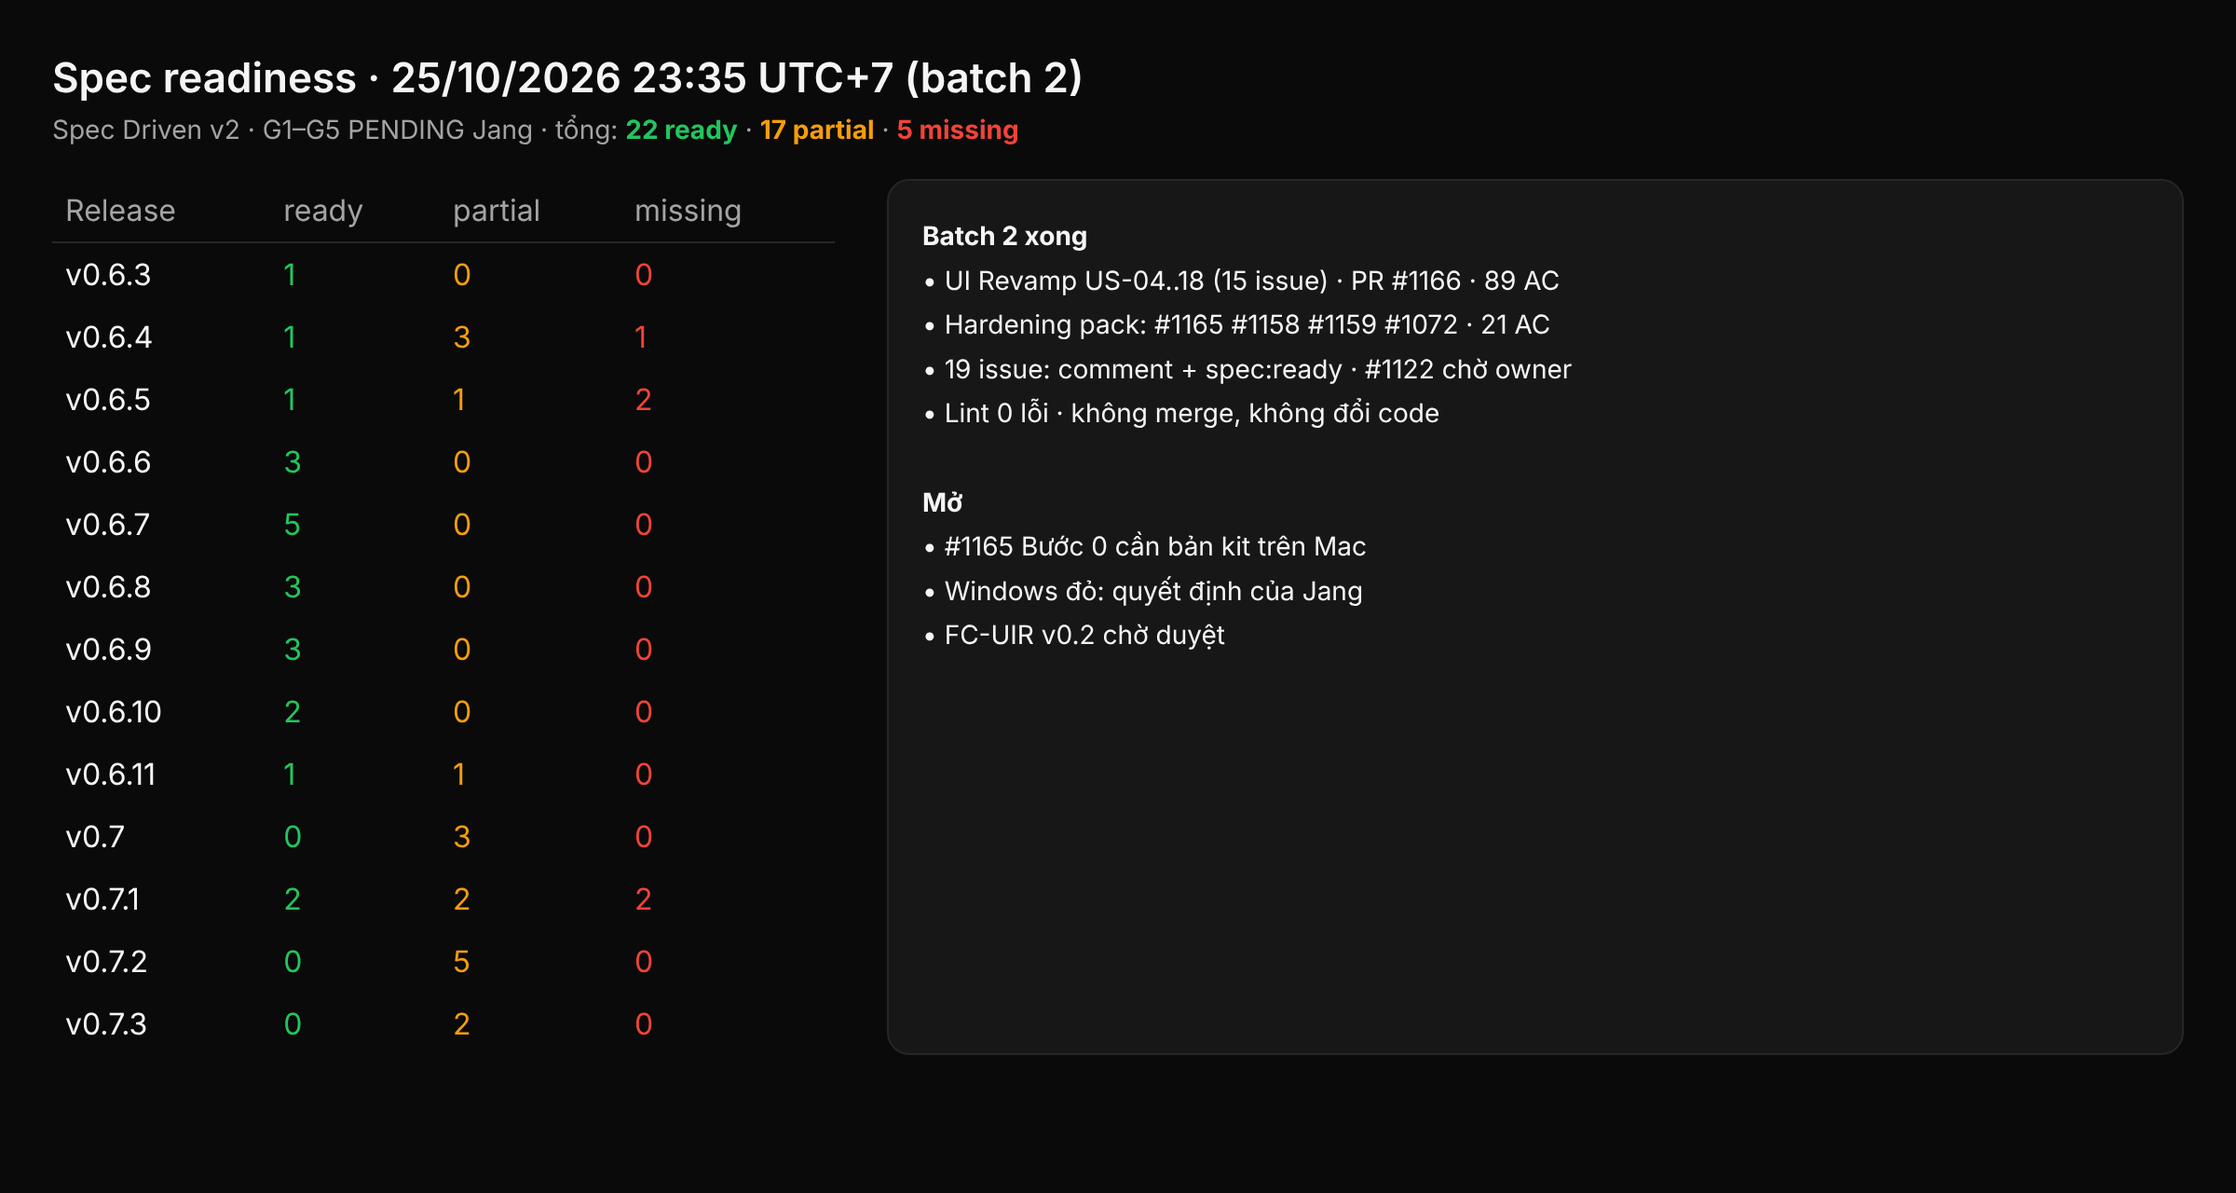
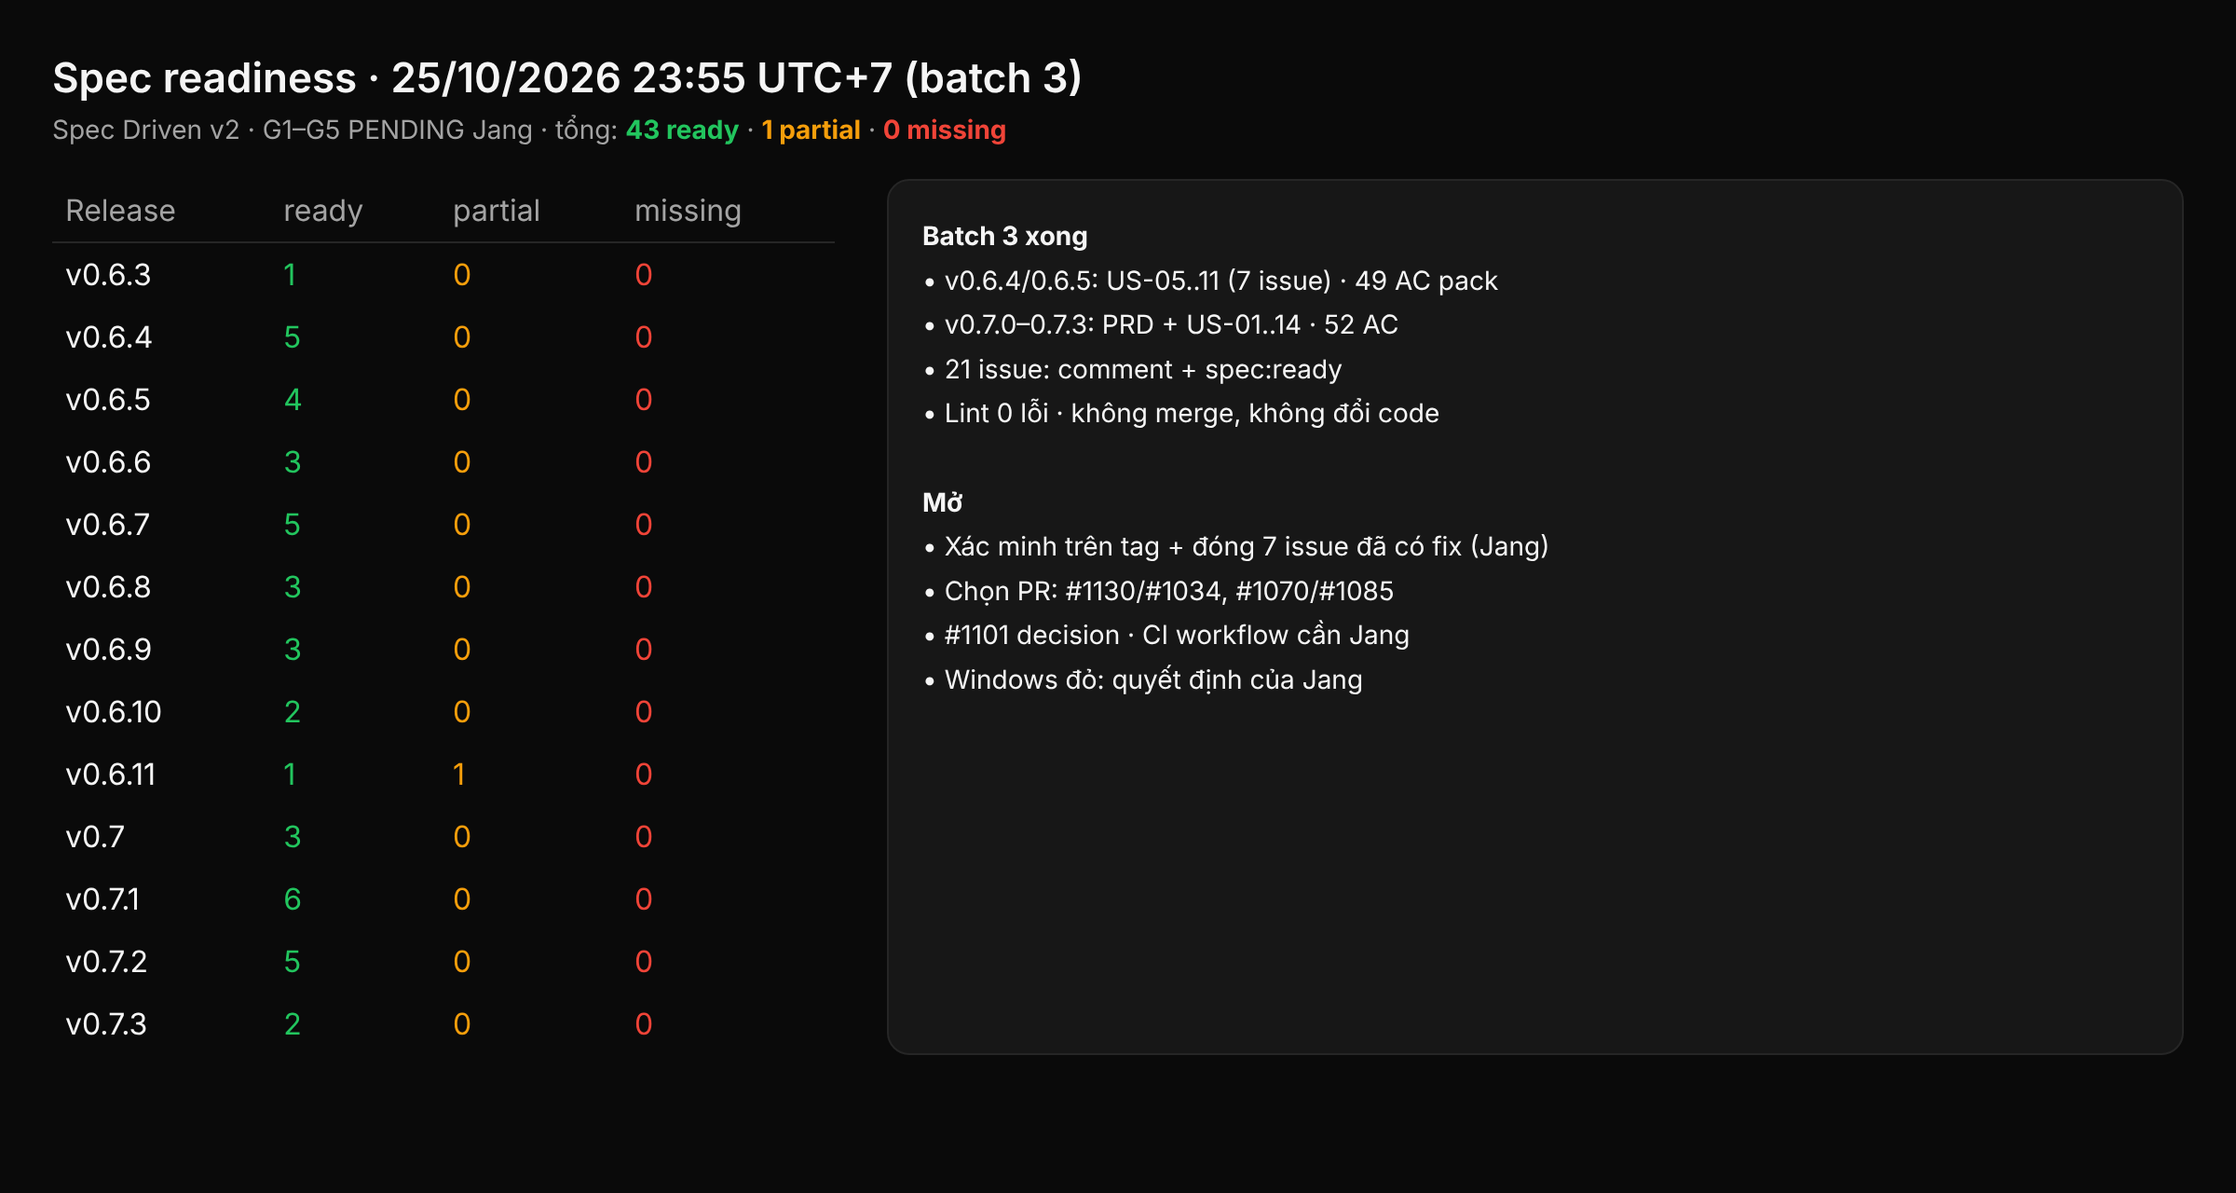
pm: spec readiness batch 3 (43 ready / 1 partial)

Changed region(s): [[0.4062, 0.4375, 0.6875, 0.5938], [0.4062, 0.2188, 0.6875, 0.3125], [0.2812, 0.0625, 0.4688, 0.125]]

diff --git a/pm/spec-readiness-2026-10-25.md b/pm/spec-readiness-2026-10-25.md
@@ -1,4 +1,4 @@
-# Spec readiness 2026-10-25 (cập nhật 23:35 UTC+7, batch 2)
+# Spec readiness 2026-10-25 (cập nhật 23:55 UTC+7, batch 3)
 
 Nguồn: GitHub open issues, milestone v0.6.3–v0.7.x (v0.6.2 đang ship, không tính). Tiêu chí *ready*: Spec Driven v2 (kit v2.4.0), lint 0 lỗi, có AC + test steps + edge cases + mockup, không OPEN chặn. Gate G1–G5: AI không ghi APPROVED; tất cả PENDING Jang.
 
@@ -6,70 +6,72 @@ Nguồn: GitHub open issues, milestone v0.6.3–v0.7.x (v0.6.2 đang ship, khôn
 
 Batch 2: UI Revamp slice 2 (C–K + #1121 #1125 #1127 #1140 #1141 #1154) thành US-04..18 trên PR #1166 (commit 7447bd5), pack tự đủ với `detail/` copy từ `docs/specs-untitled-ui-dark`; lint 48 doc, 89 AC, 0 lỗi. Pack mới `plans/specs/hardening-2026-10` trên `pm/spec-v0.6` (commit 7e2d7be): #1165, #1158, #1159, #1072, 21 AC, 0 lỗi. 19 issue có comment + nhãn `spec:ready`; #1122 chỉ comment (chờ owner).
 
+Batch 3: v0.6.4/v0.6.5 thành US-05..11 trong `v0.6-stabilize` (pm/spec-v0.6, commit 283ff6a; lint 49 AC, 0 lỗi). v0.7.0–v0.7.3 thành PRD + US-01..14 trong `v0.7-effects-export` (pm/spec-v0.7 PR #1115, commit c594f60; lint 52 AC, 0 lỗi). 21 issue có comment + nhãn `spec:ready`.
+
 ## Tổng theo bản
 | Release | ready | partial | missing |
 |---|---|---|---|
 | v0.6.3 | 1 | 0 | 0 |
-| v0.6.4 | 1 | 3 | 1 |
-| v0.6.5 | 1 | 1 | 2 |
+| v0.6.4 | 5 | 0 | 0 |
+| v0.6.5 | 4 | 0 | 0 |
 | v0.6.6 | 3 | 0 | 0 |
 | v0.6.7 | 5 | 0 | 0 |
 | v0.6.8 | 3 | 0 | 0 |
 | v0.6.9 | 3 | 0 | 0 |
 | v0.6.10 | 2 | 0 | 0 |
 | v0.6.11 | 1 | 1 | 0 |
-| v0.7 | 0 | 3 | 0 |
-| v0.7.1 | 2 | 2 | 2 |
-| v0.7.2 | 0 | 5 | 0 |
-| v0.7.3 | 0 | 2 | 0 |
+| v0.7 | 3 | 0 | 0 |
+| v0.7.1 | 6 | 0 | 0 |
+| v0.7.2 | 5 | 0 | 0 |
+| v0.7.3 | 2 | 0 | 0 |
 
 ## Chi tiết
 | Release | Issue | Spec status | Gaps |
 |---|---|---|---|
-| v0.6.3 | #1072 Agent hook commands write through a link an agent plants in the sessio  | ready | — `hardening-2026-10` US-04 (gate G1–G5 PENDING Jang) |
-| v0.6.4 | #875 Create a text style from selected text | partial | thiếu test steps, edge cases, mockup/ảnh; chưa có US v2 |
-| v0.6.4 | #887 Dev Mode code panel is too narrow to read | partial | thiếu test steps, edge cases; chưa có US v2 |
-| v0.6.4 | #993 run_tx records every touched node through two JSON values, which makes | missing | chỉ có mô tả; cần AC, test steps, edge cases, ảnh |
-| v0.6.4 | #1069 Ask-mode Grok and Antigravity tabs start with an agent-edited config w | partial | thiếu AC, edge cases, mockup/ảnh; chưa có US v2 |
+| v0.6.3 | #1072 Agent hook commands write through a link an agent plants in the sessio   | ready | — `hardening-2026-10` US-04 (gate G1–G5 PENDING Jang) |
+| v0.6.4 | #875 Create a text style from selected text  | ready | — `v0.6-stabilize` US-06 (gate G1–G5 PENDING Jang) |
+| v0.6.4 | #887 Dev Mode code panel is too narrow to read  | ready | — `v0.6-stabilize` US-07 (gate G1–G5 PENDING Jang) |
+| v0.6.4 | #993 run_tx records every touched node through two JSON values, which makes  | ready | — `v0.6-stabilize` US-08 (gate G1–G5 PENDING Jang) |
+| v0.6.4 | #1069 Ask-mode Grok and Antigravity tabs start with an agent-edited config w  | ready | — `v0.6-stabilize` US-05 (gate G1–G5 PENDING Jang) |
 | v0.6.4 | #1126 Layout-unchanged gate: baseline geometry of every surface, and the che | ready | — (gate G1–G5 PENDING Jang) |
-| v0.6.5 | #983 Editing a main component renames its instances on unloaded pages | missing | chỉ có mô tả; cần AC, test steps, edge cases, ảnh |
-| v0.6.5 | #1003 Headless input checks from the QA red team (SwiftUI escape, exit codes | partial | thiếu AC, edge cases; chưa có US v2 |
-| v0.6.5 | #1088 designos-diff has no --version | missing | chỉ có mô tả; cần AC, test steps, edge cases, ảnh |
+| v0.6.5 | #983 Editing a main component renames its instances on unloaded pages  | ready | — `v0.6-stabilize` US-09 (gate G1–G5 PENDING Jang) |
+| v0.6.5 | #1003 Headless input checks from the QA red team (SwiftUI escape, exit codes  | ready | — `v0.6-stabilize` US-10 (gate G1–G5 PENDING Jang) |
+| v0.6.5 | #1088 designos-diff has no --version  | ready | — `v0.6-stabilize` US-11 (gate G1–G5 PENDING Jang) |
 | v0.6.5 | #1142 Spec A — Onboard Untitled UI dark with the design:os CLI: colour roles | ready | — (gate G1–G5 PENDING Jang) |
-| v0.6.6 | #1141 CLI --screenshot sometimes exits 1: "screenshot was not captured"  | ready | — `ui-revamp` US-17 (gate G1–G5 PENDING Jang) |
+| v0.6.6 | #1141 CLI --screenshot sometimes exits 1: "screenshot was not captured"   | ready | — `ui-revamp` US-17 (gate G1–G5 PENDING Jang) |
 | v0.6.6 | #1143 Spec B — Untitled type, spacing, radius and control-size scale in `the | ready | — (gate G1–G5 PENDING Jang) |
-| v0.6.6 | #1154 NodeSpec sizes hug text with a width estimate, so button labels sit of  | ready | — `ui-revamp` US-18 (gate G1–G5 PENDING Jang) |
-| v0.6.7 | #1121 designos-mcp imports large kit files: one import limit, typed size err  | ready | — `ui-revamp` US-13 (gate G1–G5 PENDING Jang) |
-| v0.6.7 | #1127 The CLI addresses a node by id or Figma id, and never silently selects  | ready | — `ui-revamp` US-15 (gate G1–G5 PENDING Jang) |
-| v0.6.7 | #1139 — Widget kit: Untitled UI component anatomy and states for Studio's sh  | ready | — `ui-revamp` US-09 (gate G1–G5 PENDING Jang) |
-| v0.6.7 | #1140 A one-file, alias-resolved DTCG export per mode, so `ui ds import` onb  | ready | — `ui-revamp` US-16 (gate G1–G5 PENDING Jang) |
-| v0.6.7 | #1165 Untitled UI kit: an effect style imports with no name and shows its ID  | ready | — `hardening-2026-10` US-01 (gate G1–G5 PENDING Jang) |
-| v0.6.8 | #1119 App shell: title bar, tab bar, left rail, bottom toolbar, rulers and t  | ready | — `ui-revamp` US-04 (gate G1–G5 PENDING Jang) |
-| v0.6.8 | #1120 Left panel: file header, Pages list and Layers tree in Untitled UI dar  | ready | — `ui-revamp` US-05 (gate G1–G5 PENDING Jang) |
-| v0.6.8 | #1124 Right panel: inspector header, Design and Prototype tabs, Dev Inspect   | ready | — `ui-revamp` US-06 (gate G1–G5 PENDING Jang) |
-| v0.6.9 | #1128 Dev mode (status, sections, code, playground, Compare changes, annotat  | ready | — `ui-revamp` US-07 (gate G1–G5 PENDING Jang) |
-| v0.6.9 | #1138 Restyle the Home workspace in Untitled UI dark (Home density)  | ready | — `ui-revamp` US-08 (gate G1–G5 PENDING Jang) |
-| v0.6.9 | #1144 Surface: Agents panel, terminal and agent cards (Untitled UI dark)  | ready | — `ui-revamp` US-10 (gate G1–G5 PENDING Jang) |
-| v0.6.10 | #1146 Surface: command bar, dialogs, toasts, context menu, Find, comments, h  | ready | — `ui-revamp` US-11 (gate G1–G5 PENDING Jang) |
-| v0.6.10 | #1155 Surface: Assets panel, Variables, Libraries and Plugins dialogs (Untit  | ready | — `ui-revamp` US-12 (gate G1–G5 PENDING Jang) |
-| v0.6.11 | #1122 Research: can a public PolyForm Shield repo ship Untitled UI Icons?  | partial | research; chờ owner chọn licence (FC-UIR SC-08, đề xuất Option A) |
-| v0.6.11 | #1125 Docs and screenshot refresh after the Untitled UI dark sweep  | ready | — `ui-revamp` US-14 (gate G1–G5 PENDING Jang) |
-| v0.7 | #520 Drop shadows and layer effects differ from Figma on shadowed device mo | partial | thiếu edge cases; chưa có US v2 |
-| v0.7 | #528 Export bounds differ from Figma by 1 to 84 px on 10 kit frames | partial | thiếu edge cases, mockup/ảnh; chưa có US v2 |
-| v0.7 | #930 Approve or deny Codex tool calls from the Agents panel | partial | thiếu test steps, edge cases, mockup/ảnh; chưa có US v2 |
-| v0.7.1 | #985 MCP lets an agent delete every child of an instance | missing | chỉ có mô tả; cần AC, test steps, edge cases, ảnh |
-| v0.7.1 | #1009 Headless writers other than --export-fig follow symlinks and check no  | partial | thiếu test steps, edge cases, mockup/ảnh; chưa có US v2 |
-| v0.7.1 | #1049 An agent can lift the user's designos tool restriction through the ses | partial | thiếu test steps, edge cases, mockup/ảnh; chưa có US v2 |
-| v0.7.1 | #1050 Status hooks follow a symlink planted in the session folder | missing | chỉ có mô tả; cần AC, test steps, edge cases, ảnh |
-| v0.7.1 | #1158 [CI] Windows STATUS_STACK_OVERFLOW in workspace tests + cfg(unix) for   | ready | — `hardening-2026-10` US-02 (gate G1–G5 PENDING Jang) |
-| v0.7.1 | #1159 [CI] Force LF for rules.lock and normalise paths in rules-lock-drift (  | ready | — `hardening-2026-10` US-03 (gate G1–G5 PENDING Jang) |
-| v0.7.2 | #1074 designos-mcp gets the whole disk as its workspace when the open docume | partial | thiếu AC, edge cases; chưa có US v2 |
-| v0.7.2 | #1101 MCP and CLI writes skip the Ask gate | partial | thiếu test steps, edge cases, mockup/ảnh; chưa có US v2 |
-| v0.7.2 | #1160 [CI] Switch to cargo-nextest with retries + quarantine for flaky tests | partial | thiếu edge cases, mockup/ảnh; chưa có US v2 |
-| v0.7.2 | #1161 [CI] Add a fast ~2-minute check job before the test matrix | partial | thiếu edge cases, mockup/ảnh; chưa có US v2 |
-| v0.7.2 | #1163 [PM] Contributor quality: CONTRIBUTING + PR template + fork-safe gate | partial | thiếu AC, edge cases, mockup/ảnh; chưa có US v2 |
-| v0.7.3 | #1047 Gemini in Ask mode reads tools.allowed from the session folder's .gemi | partial | thiếu test steps, edge cases, mockup/ảnh; chưa có US v2 |
-| v0.7.3 | #1048 agy, Gemini and Grok start MCP servers from agent-writable session con | partial | thiếu test steps, edge cases, mockup/ảnh; chưa có US v2 |
+| v0.6.6 | #1154 NodeSpec sizes hug text with a width estimate, so button labels sit of   | ready | — `ui-revamp` US-18 (gate G1–G5 PENDING Jang) |
+| v0.6.7 | #1121 designos-mcp imports large kit files: one import limit, typed size err   | ready | — `ui-revamp` US-13 (gate G1–G5 PENDING Jang) |
+| v0.6.7 | #1127 The CLI addresses a node by id or Figma id, and never silently selects   | ready | — `ui-revamp` US-15 (gate G1–G5 PENDING Jang) |
+| v0.6.7 | #1139 — Widget kit: Untitled UI component anatomy and states for Studio's sh   | ready | — `ui-revamp` US-09 (gate G1–G5 PENDING Jang) |
+| v0.6.7 | #1140 A one-file, alias-resolved DTCG export per mode, so `ui ds import` onb   | ready | — `ui-revamp` US-16 (gate G1–G5 PENDING Jang) |
+| v0.6.7 | #1165 Untitled UI kit: an effect style imports with no name and shows its ID   | ready | — `hardening-2026-10` US-01 (gate G1–G5 PENDING Jang) |
+| v0.6.8 | #1119 App shell: title bar, tab bar, left rail, bottom toolbar, rulers and t   | ready | — `ui-revamp` US-04 (gate G1–G5 PENDING Jang) |
+| v0.6.8 | #1120 Left panel: file header, Pages list and Layers tree in Untitled UI dar   | ready | — `ui-revamp` US-05 (gate G1–G5 PENDING Jang) |
+| v0.6.8 | #1124 Right panel: inspector header, Design and Prototype tabs, Dev Inspect    | ready | — `ui-revamp` US-06 (gate G1–G5 PENDING Jang) |
+| v0.6.9 | #1128 Dev mode (status, sections, code, playground, Compare changes, annotat   | ready | — `ui-revamp` US-07 (gate G1–G5 PENDING Jang) |
+| v0.6.9 | #1138 Restyle the Home workspace in Untitled UI dark (Home density)   | ready | — `ui-revamp` US-08 (gate G1–G5 PENDING Jang) |
+| v0.6.9 | #1144 Surface: Agents panel, terminal and agent cards (Untitled UI dark)   | ready | — `ui-revamp` US-10 (gate G1–G5 PENDING Jang) |
+| v0.6.10 | #1146 Surface: command bar, dialogs, toasts, context menu, Find, comments, h   | ready | — `ui-revamp` US-11 (gate G1–G5 PENDING Jang) |
+| v0.6.10 | #1155 Surface: Assets panel, Variables, Libraries and Plugins dialogs (Untit   | ready | — `ui-revamp` US-12 (gate G1–G5 PENDING Jang) |
+| v0.6.11 | #1122 Research: can a public PolyForm Shield repo ship Untitled UI Icons?   | partial | research; chờ owner chọn licence (FC-UIR SC-08, đề xuất Option A) |
+| v0.6.11 | #1125 Docs and screenshot refresh after the Untitled UI dark sweep   | ready | — `ui-revamp` US-14 (gate G1–G5 PENDING Jang) |
+| v0.7 | #520 Drop shadows and layer effects differ from Figma on shadowed device mo  | ready | — `v0.7-effects-export` US-01 (gate G1–G5 PENDING Jang) |
+| v0.7 | #528 Export bounds differ from Figma by 1 to 84 px on 10 kit frames  | ready | — `v0.7-effects-export` US-02 (gate G1–G5 PENDING Jang) |
+| v0.7 | #930 Approve or deny Codex tool calls from the Agents panel  | ready | — `v0.7-effects-export` US-03 (gate G1–G5 PENDING Jang) |
+| v0.7.1 | #985 MCP lets an agent delete every child of an instance  | ready | — `v0.7-effects-export` US-04 (gate G1–G5 PENDING Jang) |
+| v0.7.1 | #1009 Headless writers other than --export-fig follow symlinks and check no   | ready | — `v0.7-effects-export` US-05 (gate G1–G5 PENDING Jang) |
+| v0.7.1 | #1049 An agent can lift the user's designos tool restriction through the ses  | ready | — `v0.7-effects-export` US-06 (gate G1–G5 PENDING Jang) |
+| v0.7.1 | #1050 Status hooks follow a symlink planted in the session folder  | ready | — `v0.7-effects-export` US-07 (gate G1–G5 PENDING Jang) |
+| v0.7.1 | #1158 [CI] Windows STATUS_STACK_OVERFLOW in workspace tests + cfg(unix) for    | ready | — `hardening-2026-10` US-02 (gate G1–G5 PENDING Jang) |
+| v0.7.1 | #1159 [CI] Force LF for rules.lock and normalise paths in rules-lock-drift (   | ready | — `hardening-2026-10` US-03 (gate G1–G5 PENDING Jang) |
+| v0.7.2 | #1074 designos-mcp gets the whole disk as its workspace when the open docume  | ready | — `v0.7-effects-export` US-08 (gate G1–G5 PENDING Jang) |
+| v0.7.2 | #1101 MCP and CLI writes skip the Ask gate  | ready | — `v0.7-effects-export` US-09 (gate G1–G5 PENDING Jang) |
+| v0.7.2 | #1160 [CI] Switch to cargo-nextest with retries + quarantine for flaky tests  | ready | — `v0.7-effects-export` US-10 (gate G1–G5 PENDING Jang) |
+| v0.7.2 | #1161 [CI] Add a fast ~2-minute check job before the test matrix  | ready | — `v0.7-effects-export` US-11 (gate G1–G5 PENDING Jang) |
+| v0.7.2 | #1163 [PM] Contributor quality: CONTRIBUTING + PR template + fork-safe gate  | ready | — `v0.7-effects-export` US-12 (gate G1–G5 PENDING Jang) |
+| v0.7.3 | #1047 Gemini in Ask mode reads tools.allowed from the session folder's .gemi  | ready | — `v0.7-effects-export` US-13 (gate G1–G5 PENDING Jang) |
+| v0.7.3 | #1048 agy, Gemini and Grok start MCP servers from agent-writable session con  | ready | — `v0.7-effects-export` US-14 (gate G1–G5 PENDING Jang) |
 
 ## Blockers / ghi chú
 - Gate G1–G5 cần Jang duyệt; ready = sẵn cho dev, không phải gate APPROVED. FC-UIR v0.2 chờ Jang duyệt.
@@ -77,4 +79,7 @@ Batch 2: UI Revamp slice 2 (C–K + #1121 #1125 #1127 #1140 #1141 #1154) thành 
 - #1165: root cause chưa chứng minh trên file thật (kit chỉ có trên Mac của Jang). Story bắt Bước 0 dump node thô trước khi code; nghi vấn chính là style đã xoá mềm/REMOVED vẫn được layer tham chiếu.
 - #1159: `rules.lock` đã `-text` nên giả thuyết CRLF có thể sai; story bắt in dòng diff đầu tiên trước.
 - #1072: phần còn lại là PR #1085 (mở). Ship v0.6.3+ với Windows đỏ vẫn là OPEN DECISION của Jang.
-- Batch tiếp: các issue partial/missing còn lại từ v0.6.4 trở đi (#875, #887, #993, #1069, #983, #1003, #1088, …).
+- Nhiều issue v0.6.4/v0.6.5 đã có fix merge vào 0.6.2 (#1078, #1024, #1033, #1025, #1091, #1090, #1103) nhưng issue còn mở: story là xác minh AC trên tag rồi đóng (Jang). RT-04/RT-07 của #1003 nằm trong PR #1117 (open).
+- PR trùng cần Jang chọn: #985 (PR #1130 vs #1034); #1050 (PR #1070 vs #1085/#1072).
+- #1101 cần decision record (write nào qua Ask) trước khi code. #1160/#1161/#1163 đổi `.github/workflows`: cần Jang review merge.
+- Còn lại: #1122 (chờ owner chọn licence), v0.7.4 effects và Backlog chưa thuộc batch này.

diff --git a/pm/execution-log-2026-10-25.md b/pm/execution-log-2026-10-25.md
@@ -1039,3 +1039,6 @@
 - [SPEC-READY] Batch 2 (23:35 UTC+7): UI Revamp slice 2 → US-04..18 on PR #1166 (7447bd5), `detail/` copied from docs/specs-untitled-ui-dark so the pack is self-contained; lint 48 docs / 89 AC / 0 errors. Nothing merged.
 - [SPEC-READY] New pack plans/specs/hardening-2026-10 on pm/spec-v0.6 (7e2d7be): #1165 (US-01, root-cause hypotheses from code, Step 0 dump needs kit copy on Mac), #1158 (US-02), #1159 (US-03, rules.lock already -text), #1072 (US-04, remainder = PR #1085). 21 AC, 0 errors.
 - [SPEC-READY] Comment + `spec:ready` on 19 issues (1119 1120 1124 1128 1138 1139 1144 1146 1155 1121 1125 1127 1140 1141 1154 1165 1158 1159 1072). #1122 comment only (owner decision). Readiness: 22 ready / 17 partial / 5 missing. Windows-red ship remains Jang's OPEN DECISION.
+- [SPEC-READY] Batch 3 (23:55 UTC+7): v0.6.4/v0.6.5 → per-issue US-05..11 in plans/specs/v0.6-stabilize (283ff6a; PRD/INDEX/US-03/US-04/delivery linked; lint 49 AC / 0 errors). #1069 #875 #887 #993 #983 #1088 already have merged fixes (0.6.2) but are open: stories = verify on tag, then Jang closes. #1003 RT-04/RT-07 in open PR #1117.
+- [SPEC-READY] v0.7-effects-export on pm/spec-v0.7 (PR #1115, c594f60): PRD REQ-01..14, US-01..14, tests, 14 mockups, delivery v0.7.0–v0.7.3; lint 52 AC / 0 errors. Duplicate PRs need Jang's pick: #985 (#1130 vs #1034), #1050 (#1070 vs #1085). #1101 needs a decision record first; #1160/#1161/#1163 touch workflows → Jang review.
+- [SPEC-READY] Comment + `spec:ready` on 21 issues (1069 875 887 993 983 1003 1088 520 528 930 985 1009 1049 1050 1074 1101 1160 1161 1163 1047 1048). Readiness: 43 ready / 1 partial (#1122) / 0 missing. Nothing merged, closed or deleted; Windows-red ship stays Jang's open decision.
